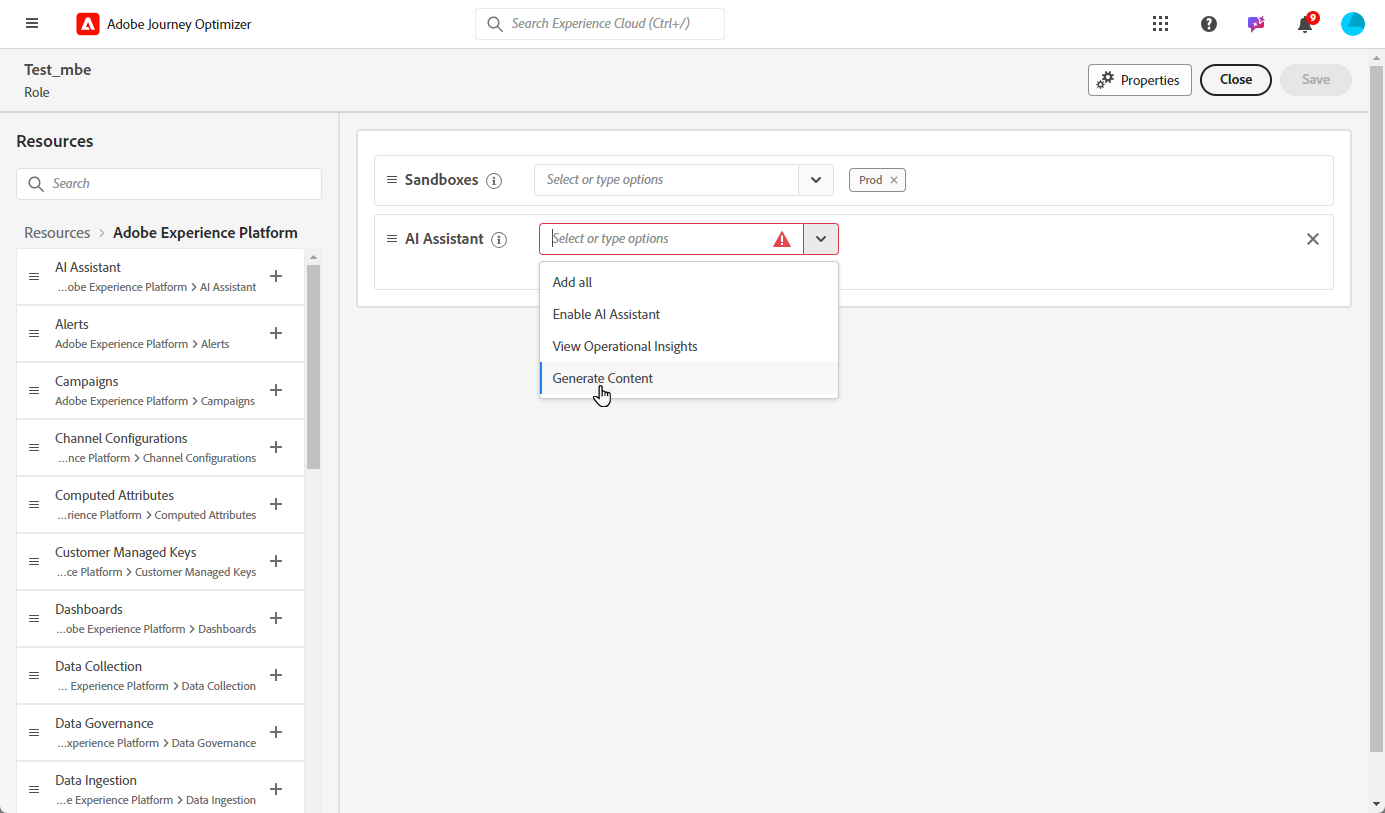
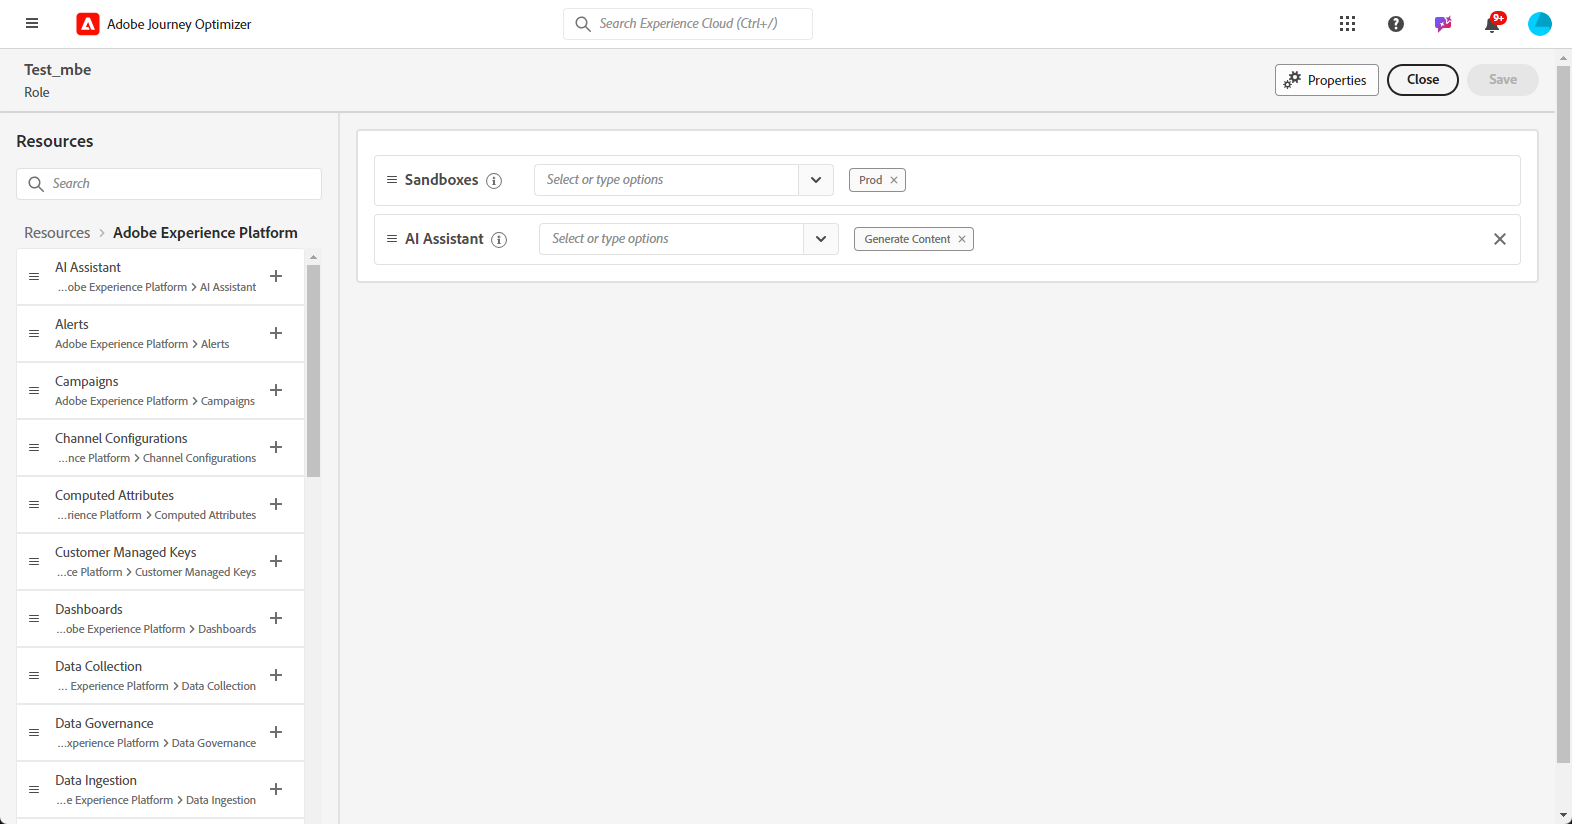
update permissions

diff --git a/help/using/administration/ootb-permissions.md b/help/using/administration/ootb-permissions.md
@@ -16,8 +16,8 @@ Built-in permissions represents the different permissions that can be assigned t
  
 | Capability | Permissions|
 |-|-|
+|AI assistant|**[!DNL Generate content]**: access to the AI assistant in Journey Optimizer for Content acceleration. |
 |Campaigns|**[!DNL Manage campaigns]**: read, create, edit, and delete campaigns. </br>**[!DNL Publish campaigns]**: right to publish campaigns.</br>**[!DNL View campaigns]**: read-only access to campaigns. </br>**[!DNL View campaigns report]**: read and edit campaign reports.|
-|Reports|**[!DNL View channel reports]**: read and edit channel reports.|
 |Channel configurations|**[!DNL Export suppression list]**: access to export suppression list as a CSV file.</br>**[!DNL Manage alerts]**: enable/disable alerts for campaigns, messages and entitlements.</br> **[!DNL Manage file routing]**:  read, create, edit, and delete file routing configurations. </br> **[!DNL Manage IP pools]**: read, create, edit, and delete ip pool. </br>**[!DNL Manage landing page settings]**: read, create, edit, and delete landing page settings.</br> **[!DNL Manage messages general settings]**: read, create, edit, and delete message general settings.</br>**[!DNL Manage messages presets]**: read, create, edit, and delete content branding.</br>**[!DNL Manage PTR records]**: read and edit PTR records. </br>**[!DNL Manage SMS settings]**: read, create, edit, and delete SMS settings. </br>**[!DNL Manage SMS subdomains]**: read, create, edit, and delete SMS subdomains.</br> **[!DNL Manage Seedlist]**: read, create, edit, and delete Seedlist. </br> **[!DNL Manage subdomains delegation]**: read, create, edit, and delete subdomain delegation. </br>**[!DNL Manage suppression rules]**: access read, create, edit and delete suppression rules.</br> **[!DNL View channel surfaces]**: read-only access to channel surfaces.</br>**[!DNL View file routing]**: read-only access to file routing configurations. </br>**[!DNL View messages general settings]**: read-only access to message general settings.</br> **[!DNL View messages presets]**: read-only access to messages presets. </br> **[!DNL View PTR records]**: read-only access to PTR records.</br>**[!DNL View suppression list]**: read and export local suppression list.|
 |Dashboards|**[!DNL View license usage dashboards]**: read-only access to the [license usage dashboard](../audience/license-usage.md). </br>**[!DNL Manage custom dashboards]**: allows you to create a new dashboard or edit an existing dashboard.</br>**[!DNL Manage standard dashboards]**: allows you to create custom widgets and edit the widget schema through the Widget library.</br>**[!DNL View custom dashboards]**: read-only access to user defined dashboards. </br>**[!DNL View standard dashboards]**: read-only access to the Profiles, Destinations, and Audiences dashboards.|
 |Data collection|**[!DNL Manage datastream]**: read, create, and edit datastreams.</br>**[!DNL View datastream]**: read-only access to datastreams.|
@@ -34,6 +34,7 @@ Built-in permissions represents the different permissions that can be assigned t
 |Journeys|**[!DNL Manage journeys]**: read, create, edit, and delete journeys. To access and manage journeys, combine this permission with **[!DNL View journeys events, data sources and actions]**.</br>**[!DNL Manage journeys events, data sources and actions]**: read, create, edit, and delete events, sources or actions.</br>**[!DNL Publish journeys]**: publish journeys.</br>**[!DNL View journeys]**: read-only access to jouneys.</br>**[!DNL View journeys events, data sources and actions]**: Read-only access to journey events, journey custom actions and journey data sources.</br>**[!DNL View journeys report]**: read and edit journeys report.</br>|
 |Profile management|**[!DNL Evaluate a segment to an audience]**: generate profiles for an audience by evaluating a segment definition.</br>**[!DNL Export audience segments]**: export an evaluated audience segment to a dataset.</br>**[!DNL Manage merge policies]**: read, create, edit, and delete merge policies.</br>**[!DNL Manage profiles]**: read, create, edit, and delete datasets that are used for customer profiles. Read-only access to available profiles.</br>**[!DNL View merge policies]**: read-only access to available merge policies.</br>**[!DNL View profiles]**: read-only access to available profiles.</br>**[!DNL View segments]**: read-only access to available audiences.|
 |Query service|**[!DNL Manage queries]**:  read, create, edit, and delete structured SQL queries for Platform data.</br>**[!DNL Manage query service integration]**: create, update, and delete non-expiring credentials for Query Service access. |
+|Reports|**[!DNL View channel reports]**: read and edit channel reports.|
 |Sandbox administration|**[!DNL Export sandboxes]**: ability to export a sandbox.</br>**[!DNL Manage packages]**: read, create, edit, and delete packages.</br>**[!DNL Manage sandboxes]**: read, create, edit, and delete sandboxes.</br>**[!DNL View sandboxes]**: read-only access for sandboxes belonging to your organization.</br>**[!DNL Reset sandboxes]**: ability to reset a sandbox. |
 
 {style="table-layout:fixed"}

diff --git a/help/using/administration/high-low-permissions.md b/help/using/administration/high-low-permissions.md
@@ -505,3 +505,13 @@ The **[!DNL Manage web subdomain]** high-level permission allows users to read, 
   +++ It includes the following low-level permissions: 
 -->
 
+## AI assistance resource {#ai-permissions} 
+
+* **[!DNL Generate content]** high-level permission allows users to access to the AI assistant in Journey Optimizer for Content acceleration.
+
+  +++ It includes the following low-level permission:  
+
+  * Journey Optimizer specific: 
+    * ai-assistant-generated-content.generate
+
+  +++
